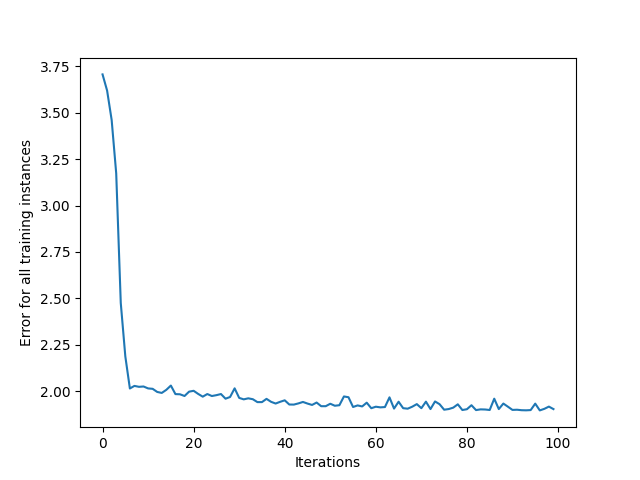
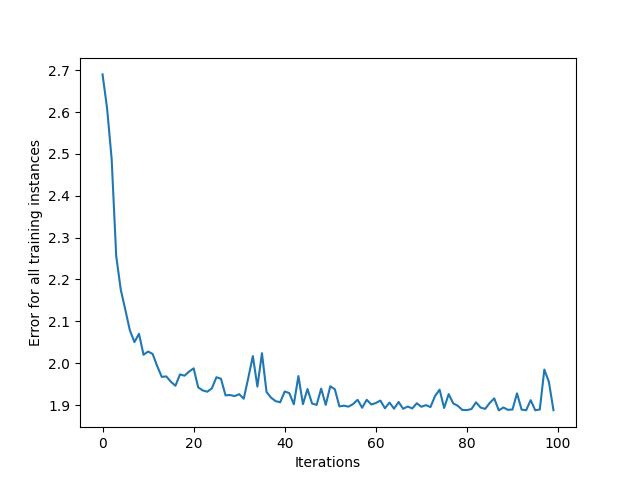
adad

diff --git a/ai3/AI3.py b/ai3/AI3.py
@@ -8,8 +8,8 @@ neural_network = nn1.NeuralNetwork(learning_rate)
 neural_network.predict(input_vector)
 
 # gli imput devono essere proporzionali ai target
-input_vectors = np.array([[3, 1.5],[2, 1],[4, 1.5],[3, 4],[3.5, 0.5],[2, 0.5],[5.5, 1],[1, 1],])
-targets = np.array([0, 1, 0, 1, 0, 1, 1, 0, ])
+input_vectors = np.array([[3, 1.5],[2, 1],[4, 1.5],[3, 4],[3.5, 0.5],[2, 0.5],[5.5, 1],[1, 1],[26,1],])
+targets = np.array([0, 1, 0, 1, 0, 1, 1, 0, 1, ])
 
 neural_network = nn1.NeuralNetwork(learning_rate)
 training_error = neural_network.train(input_vectors, targets, 10000)

diff --git a/p1/ai_my.py b/p1/ai_my.py
@@ -1,0 +1,24 @@
+# import numpy as np
+# saluti = ['ciao','salve','buongiorno','buonasera']
+# nrandom = np.random.randint(len(saluti))
+
+
+# richiesta=input("richiesta: ")
+# richiestal=richiesta.split()
+# nstringa=int("C")
+# print(nstringa)
+# for i in saluti:
+#     for j in richiestal:
+#         if i == j:
+#             print(i)
+
+text = input("enter a string to convert into ascii values:")
+splt = text.split()
+ascii_values = []
+i =0
+
+print()
+for character in text:
+    ascii_values.append(ord(splt[i]))
+    i+=1
+print(ascii_values)
